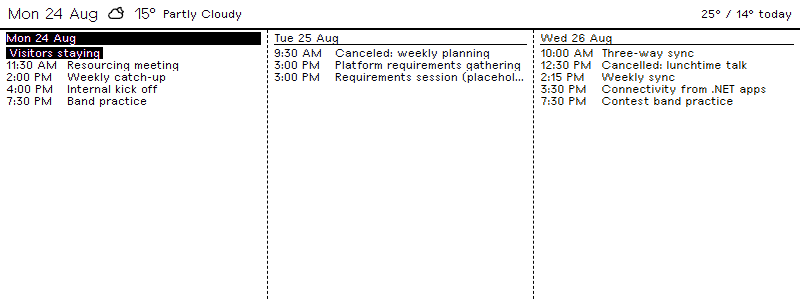
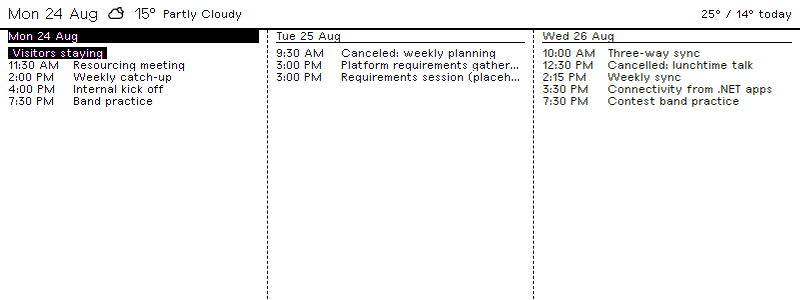
Use the official trmnlp workflow, and make trmnlp lint pass
There is no reusable action for pushing; upstream scaffolds a workflow that
installs the gem. Adopt that shape - a lint job on every PR and push, then
trmnlp push --force from main - keeping the plugin-id guard, which the
scaffold does not have.

lint gates the push (needs: lint, and the command exits 1 on any issue), and
LimitedInlineStyles was failing 50 against a cap of 6. It counts the strings
padding, margin, background-color, border-radius, justify-content, text-align,
object-fit and font-size anywhere in the markup, <style> blocks included, so a
hand-built grid cannot pass while its spacing lives in CSS. The frozen CHECKS
list has no per-rule opt-out.

Moved the spacing onto the framework's own utilities instead:
- padding and margin -> p--N / px--N / pl--N / m--N classes, 4px per step
- background-color: -> background:, ordered before any background-image
- justify-content: -> place-content:, equivalent here because every one of
  these flex containers is single-line, where align-content has no effect
- border-radius on the graph pills -> the rounded--full utility
- chip and setup margins -> gap on the flex parent
- dropped the .view/.layout padding reset: the framework already sets
  .view--full .layout to padding 0, so it was a no-op for the full layout

Count is now 0 of 6, and the other twelve checks were already passing.

Also add screen_height to .trmnlp.yml so trmnlp serve matches tools/render.py.
[…]

Changed region(s): [[0.0, 0.09, 1.0, 0.36]]

diff --git a/README.md b/README.md
@@ -135,16 +135,18 @@ exactly what changed.
 
 ### From CI
 
-`.github/workflows/push-trmnl.yml` runs the same script whenever `src/**`
-changes on `main`, and on demand from the Actions tab. It needs the
-`TRMNL_API_KEY` repository secret.
+`.github/workflows/push-trmnl.yml` follows the workflow `trmnlp init` scaffolds:
+a **lint** job on every PR and push, and a **push** job that runs
+`trmnlp push --force` from `main`. It needs the `TRMNL_API_KEY` repository
+secret. CI uses the official gem rather than `tools/push.py`, which exists for
+local pushes on machines without Ruby.
 
-The one thing to get right is the plugin id. `push.py` **creates a new plugin
-when it cannot find one**, so a workflow that ran without an id would make a
-fresh duplicate every time. The id is resolved from the `TRMNL_PLUGIN_ID`
-repository variable, or failing that from `id:` in `src/settings.yml`; with
-neither, the run fails rather than guessing. To make the plugin the first time,
-either:
+It adds one thing the scaffold does not have: a guard on the plugin id.
+`trmnlp push` **creates a new plugin when it cannot find an id**, so a workflow
+that ran without one would make a fresh duplicate every time. The id is resolved
+from the `TRMNL_PLUGIN_ID` repository variable, or failing that from `id:` in
+`src/settings.yml`; with neither, the run stops rather than guessing. To make the
+plugin the first time, either:
 
 - push once locally (`python tools/push.py`) and commit the `src/settings.yml`
   the server hands back, which is the id-bearing version; or
@@ -153,9 +155,8 @@ either:
   commit is marked `[skip ci]`, because it touches `src/` and would otherwise
   retrigger the workflow that made it.
 
-**Manual run** also offers **dry_run**, which authenticates and lists the files
-without uploading. The workflow verifies the key that way before every real
-upload, so a missing or expired secret fails before anything reaches the device.
+`--force` skips the "settings will be overwritten" confirmation, which has no
+stdin on a runner.
 
 The write-back needs `contents: write`, which the workflow requests. If your
 repository or organisation caps the `GITHUB_TOKEN` to read-only, set
@@ -222,6 +223,17 @@ Everything visual is in the `<style>` block at the top of each template:
 - Event labels pin `line-height` to 1, so a label is exactly its font size tall.
   That is what lets a 30-minute block carry a line without shaving the
   descenders off it, and it is what sets the block height thresholds below.
+- **Spacing comes from the framework's `p--N` / `px--N` / `m--N` utilities, not
+  from CSS.** `trmnlp lint` gates the build on `LimitedInlineStyles`, which
+  counts the strings `padding`, `margin`, `background-color`, `border-radius`,
+  `justify-content`, `text-align`, `object-fit` and `font-size` anywhere in the
+  markup — `<style>` blocks included — and caps them at six across all four
+  templates. The scale is 4px per step (`p--1` = 4px). Two substitutions keep
+  the rest honest: `background:` instead of `background-color:` (put the
+  shorthand *before* any `background-image`, which it resets), and
+  `place-content:` instead of `justify-content:` — equivalent here, because
+  every one of these flex containers is single-line, where `align-content` has
+  no effect.
 
 ## Data it relies on
 
@@ -277,9 +289,9 @@ To check your own payloads:
 - Only the full layout has had the column-aligned weather strip, the no-times
   treatment and the 800×600 sizing; the mashup layouts still print a time per
   row, which is what makes sense in a list.
-- `trmnlp lint` reports `LimitedInlineStyles` — it counts CSS property names
-  anywhere in the markup and caps them at six, which a hand-built grid exceeds.
-  Advisory only.
+- The mashup layouts no longer reset `.layout` padding, so on the hosted
+  renderer they pick up the framework's `var(--gap)` cell padding. The local
+  harness has no `.layout` element, so that cannot be previewed here.
 
 ## References
 
